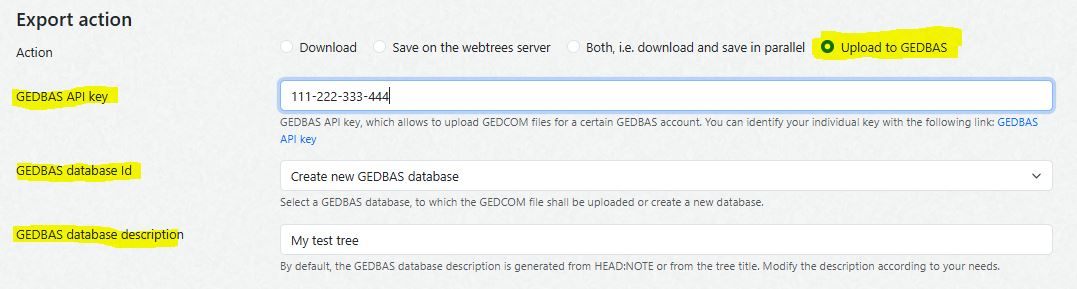
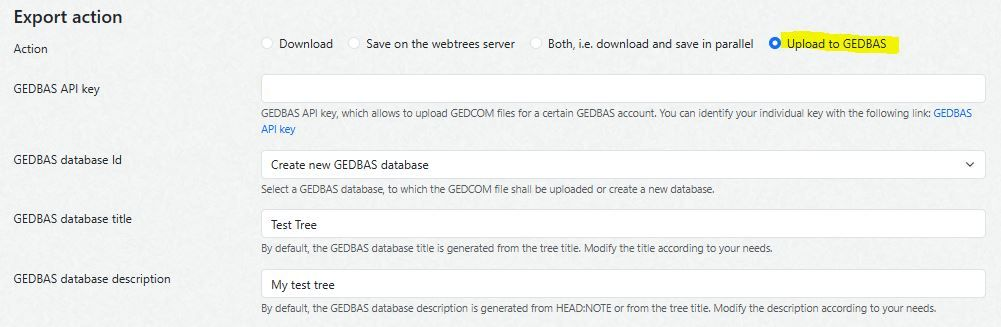
Added field to edit GEDBAS title

diff --git a/DownloadGedcomWithURL.php b/DownloadGedcomWithURL.php
@@ -209,7 +209,8 @@ class DownloadGedcomWithURL extends AbstractModule implements
     public const PREF_DEFAULT_TIME_STAMP = 'default_time_stamp';
     
     //Preferences for trees
-    public const TREE_PREF_GEDBAS_ID = 'GEDBAS_id';
+    public const TREE_PREF_GEDBAS_ID = 'GEDBAS_Id';
+    public const TREE_PREF_GEDBAS_TITLE = 'GEDBAS_title';
     public const TREE_PREF_GEDBAS_APIKEY = 'GEDBAS_apiKey';
     public const TREE_PREF_GEDBAS_DESCRIPTION = 'GEDBAS_description';
 
@@ -1818,6 +1819,7 @@ class DownloadGedcomWithURL extends AbstractModule implements
             $export_clippings_cart     = false;
             $GEDBAS_apiKey             = Validator::queryParams($request)->string('GEDBAS_apiKey', $tree !== null ? $tree->getPreference(DownloadGedcomWithURL::TREE_PREF_GEDBAS_APIKEY, '') : '');
             $GEDBAS_Id                 = Validator::queryParams($request)->string('GEDBAS_Id', $tree !== null ? $tree->getPreference(DownloadGedcomWithURL::TREE_PREF_GEDBAS_ID, '') : '');
+            $GEDBAS_title              = Validator::queryParams($request)->string('GEDBAS_title', $tree !== null ? $tree->getPreference(DownloadGedcomWithURL::TREE_PREF_GEDBAS_TITLE, '') : '');
             $GEDBAS_description        = Validator::queryParams($request)->string('GEDBAS_description', $tree !== null ? $this->createGEDBASdescription($tree) : '');
 
             if ($action === self::ACTION_UPLOAD) {
@@ -1854,6 +1856,7 @@ class DownloadGedcomWithURL extends AbstractModule implements
             $import_encoding           = Validator::parsedBody($request)->isInArrayKeys($encodings)->string('import_encoding', '');
             $GEDBAS_apiKey             = Validator::parsedBody($request)->string('GEDBAS_apiKey', '');
             $GEDBAS_Id                 = Validator::parsedBody($request)->string('GEDBAS_Id', '');
+            $GEDBAS_title              = Validator::parsedBody($request)->string('GEDBAS_title', '');
             $GEDBAS_description        = Validator::parsedBody($request)->string('GEDBAS_description', '');
 
             if ($action === self::ACTION_UPLOAD) {
@@ -1879,6 +1882,7 @@ class DownloadGedcomWithURL extends AbstractModule implements
             'endings'               => $line_endings,
             'time_stamp'            => $time_stamp,
             'GEDBAS_Id'             => $GEDBAS_Id,
+            'GEDBAS_title'          => $GEDBAS_title,
             'GEDBAS_description'    => $GEDBAS_description,
             'gedcom_filter1'        => $gedcom_filter1,                        
             'gedcom_filter2'        => $gedcom_filter2,                        
@@ -2169,7 +2173,7 @@ class DownloadGedcomWithURL extends AbstractModule implements
 
                     //Upload to GEDBAS
                     $this->root_filesystem->writeStream($export_file_location, $resource);
-                    $GEDBAS_Id = $this->uploadToGEDBAS($GEDBAS_apiKey, $GEDBAS_Id, $export_file_name, $export_file_location, $tree->title(), $GEDBAS_description);
+                    $GEDBAS_Id = $this->uploadToGEDBAS($GEDBAS_apiKey, $GEDBAS_Id, $export_file_name, $export_file_location, $GEDBAS_title, $GEDBAS_description);
                     $this->root_filesystem->delete($export_file_location);
                 } 
                 catch (FilesystemException | UnableToWriteFile | GEDBASCommunicationException $ex) {
@@ -2190,12 +2194,13 @@ class DownloadGedcomWithURL extends AbstractModule implements
                     }
                 }
 
-                //Assign received GEDBAS apiKey, Id, and description to tree
+                //Assign received GEDBAS apiKey, title, Id, and description to tree
                 $tree->setPreference(DownloadGedcomWithURL::TREE_PREF_GEDBAS_APIKEY, $GEDBAS_apiKey);
                 $options_to_return_to_control_panel['GEDBAS_Id'] = $GEDBAS_Id;
 
                 if (!$export_clippings_cart) {
                     $tree->setPreference(DownloadGedcomWithURL::TREE_PREF_GEDBAS_DESCRIPTION, $GEDBAS_description);
+                    $tree->setPreference(DownloadGedcomWithURL::TREE_PREF_GEDBAS_TITLE, $GEDBAS_title);
                     $tree->setPreference(DownloadGedcomWithURL::TREE_PREF_GEDBAS_ID, $GEDBAS_Id);
                 }
 

diff --git a/ExportGedcomPage.php b/ExportGedcomPage.php
@@ -88,6 +88,7 @@ class ExportGedcomPage implements RequestHandlerInterface
         $export_clippings_cart = Validator::queryParams($request)->boolean('export_clippings_cart', false);
         $GEDBAS_Id             = Validator::queryParams($request)->string('GEDBAS_Id', '');
         $GEDBAS_description    = Validator::queryParams($request)->string('GEDBAS_description', '');
+        $GEDBAS_title          = Validator::queryParams($request)->string('GEDBAS_title', '');
         $gedcom_filter1        = Validator::queryParams($request)->string('gedcom_filter1', MoreI18N::xlate('None'));
         $gedcom_filter2        = Validator::queryParams($request)->string('gedcom_filter2', MoreI18N::xlate('None'));
         $gedcom_filter3        = Validator::queryParams($request)->string('gedcom_filter3', MoreI18N::xlate('None'));
@@ -136,6 +137,7 @@ class ExportGedcomPage implements RequestHandlerInterface
                 'endings'               => $endings,
                 'time_stamp'            => $time_stamp,
                 'GEDBAS_Id'             => $GEDBAS_Id,
+                'GEDBAS_title'          => $GEDBAS_title,
                 'GEDBAS_description'    => $GEDBAS_description,
                 'gedcom_filter_list'    => $gedcom_filter_list,
                 'gedcom_filter1'        => $gedcom_filter1,

diff --git a/README.md b/README.md
@@ -319,6 +319,7 @@ The full URL format, which contains all possible parameters is defined as follow
 &emsp;**&gedcom_media_path**=[MY_GEDCOM_MEDIA_PATH](#MY_GEDCOM_MEDIA_PATH)  
 &emsp;**&GEDBAS_apiKey**=[MY_GEDBAS_APIKEY](#MY_GEDBAS_APIKEY)  
 &emsp;**&GEDBAS_Id**=[MY_GEDBAS_ID](#MY_GEDBAS_ID)  
+&emsp;**&GEDBAS_title**=[MY_GEDBAS_TITLE](#MY_GEDBAS_TITLE)  
 &emsp;**&GEDBAS_description**=[MY_GEDBAS_DESCRIPTION](#MY_GEDBAS_DESCRIPTION)
 
 **REMOTE_URL** is the webtrees route to call the remote API of the Extended Import/Export module, see chapter [Remote URL](#remote-url).
@@ -343,7 +344,7 @@ It is not mandatory to provide all parameters. The only mandatory parameters are
     + REMOTE_URL&**action=merge_trees**&tree_to_merge=tree1&tree=tree2&key=hYHBiZM9
 
 + **Upload the GEDCOM file of a tree to the GEDBAS internet database**:
-    + REMOTE_URL&**action=GEDBAS**&GEDBAS_apiKey=1111-2222-3333&GEDBAS_Id=12345&GEDBAS_description="An uploaded tree"&key=hYHBiZM9
+    + REMOTE_URL&**action=GEDBAS**&GEDBAS_apiKey=1111-2222-3333&GEDBAS_Id=12345&GEDBAS_title="My tree"&GEDBAS_description="An uploaded tree"&key=hYHBiZM9
 
 For the definition of **REMOTE_URL** see chapter [Remote URL](#remote-url).
 
@@ -407,6 +408,9 @@ For the definition of **REMOTE_URL** see chapter [Remote URL](#remote-url).
 * **<a name="MY_GEDBAS_ID">MY_GEDBAS_ID</a>** specifies the Id of the GEDBAS database, to which the GEDCOM file shall be uploaded.
   * In order to create a new database in GEDBAS, leave the Id field empty.
   * If you login into your GEDBAS account, you can identify existing GEDBAS databbase Ids with the following link: [GEDBAS database Ids](https://gedbas.genealogy.net/database/myFiles)
+
+* **<a name="MY_GEDBAS_TITLE">MY_GEDBAS_TITLE</a>** specifies the title of the GEDBAS database.
+  * If no value is provided, the description will default to the tree title
 
 * **<a name="MY_GEDBAS_DESCRIPTION">MY_GEDBAS_DESCRIPTION</a>** specifies the description of the GEDBAS database.
   * If no value is provided, the description will default to HEAD:NOTE or the tree name
